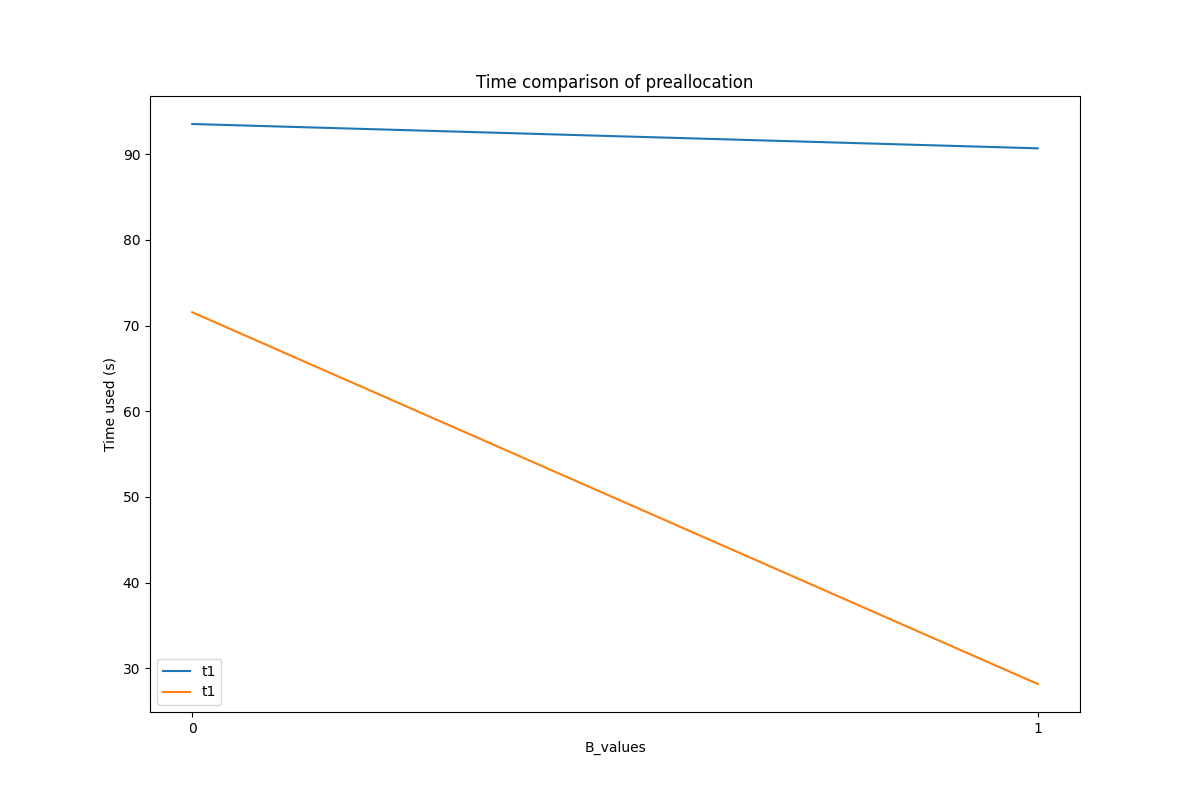
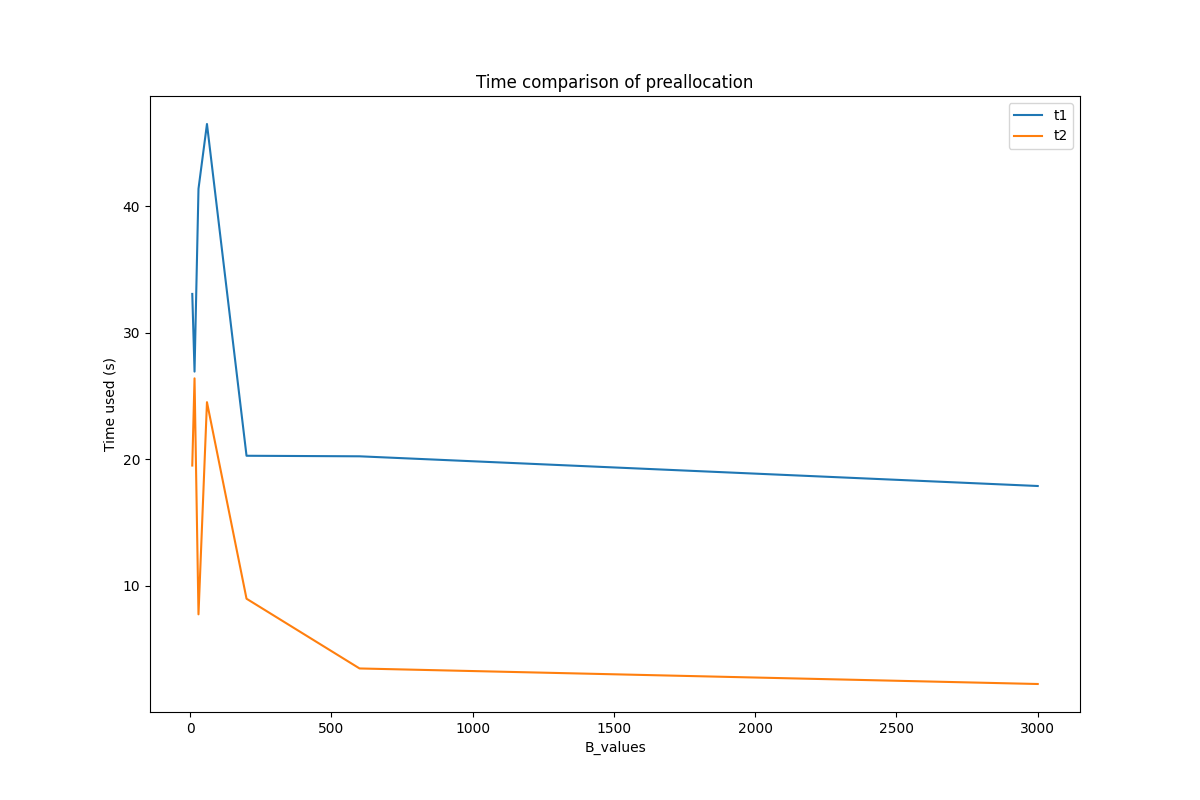
plot function update

diff --git a/pa6release/release/main.py b/pa6release/release/main.py
@@ -4,7 +4,7 @@ import os
 # BEGIN THREAD SETTINGS this sets the number of threads used by numpy in the program (should be set to 1 for Parts 1 and 3)
 import numpy as np
 
-implicit_num_threads = 1
+implicit_num_threads = 4
 os.environ["OMP_NUM_THREADS"] = str(implicit_num_threads)
 os.environ["MKL_NUM_THREADS"] = str(implicit_num_threads)
 os.environ["OPENBLAS_NUM_THREADS"] = str(implicit_num_threads)
@@ -18,6 +18,8 @@ import mnist
 import pickle
 matplotlib.use('agg')
 from matplotlib import pyplot
+
+matplotlib.style.use("bmh")
 import threading
 import time
 
@@ -284,15 +286,18 @@ def sgd_mss_with_momentum_threaded_float32(Xs, Ys, gamma, W0, alpha, beta, B, nu
 
 def plot_time(t1s,t2s,B_values,cores=1):
     pyplot.figure(figsize=(12, 8))
-    pyplot.plot(t1s, label="t1")
-    pyplot.plot(t2s, label="t1")
+    pyplot.scatter(np.linspace(np.min(B_values),np.max(B_values),len(B_values)), t1s, label="t1")
+    pyplot.scatter(np.linspace(np.min(B_values),np.max(B_values),len(B_values)), t2s, label="t2",marker='x')
+    pyplot.plot(np.linspace(np.min(B_values),np.max(B_values),len(B_values)), t1s)
+    pyplot.plot(np.linspace(np.min(B_values),np.max(B_values),len(B_values)), t2s)
     pyplot.title("Time comparison of preallocation")
-    pyplot.xticks(range(len(B_values)))
+    pyplot.xticks(np.linspace(np.min(B_values),np.max(B_values),len(B_values)),B_values)
     pyplot.xlabel("B_values")
     pyplot.ylabel("Time used (s)")
     pyplot.legend()
     pyplot.savefig(f"runtime_part_cores{cores}")
     pyplot.plot()
+    # pyplot.show()
     # pyplot.clf()
 
 def part1(Xs_tr, Ys_tr, Xs_te, Ys_te):
@@ -303,8 +308,8 @@ def part1(Xs_tr, Ys_tr, Xs_te, Ys_te):
     gamma = 0.0001
     num_epochs = 20
     W0 = numpy.random.rand(c,d)
-    # B_values = [8,16,30,60,200,600,3000]
-    B_values = [8,16]
+    B_values = [8,16,30,64,200,600,3000]
+    # B_values = [8,16]
     t1s = []
     t2s = []
     for B_size in B_values:
@@ -326,7 +331,8 @@ def part1(Xs_tr, Ys_tr, Xs_te, Ys_te):
 
         t1s.append(t1)
         t2s.append(t2)
-    plot_time(t1s,t2s,B_values)
+
+    plot_time(t1s,t2s,B_values,cores=implicit_num_threads)
 
 
 
